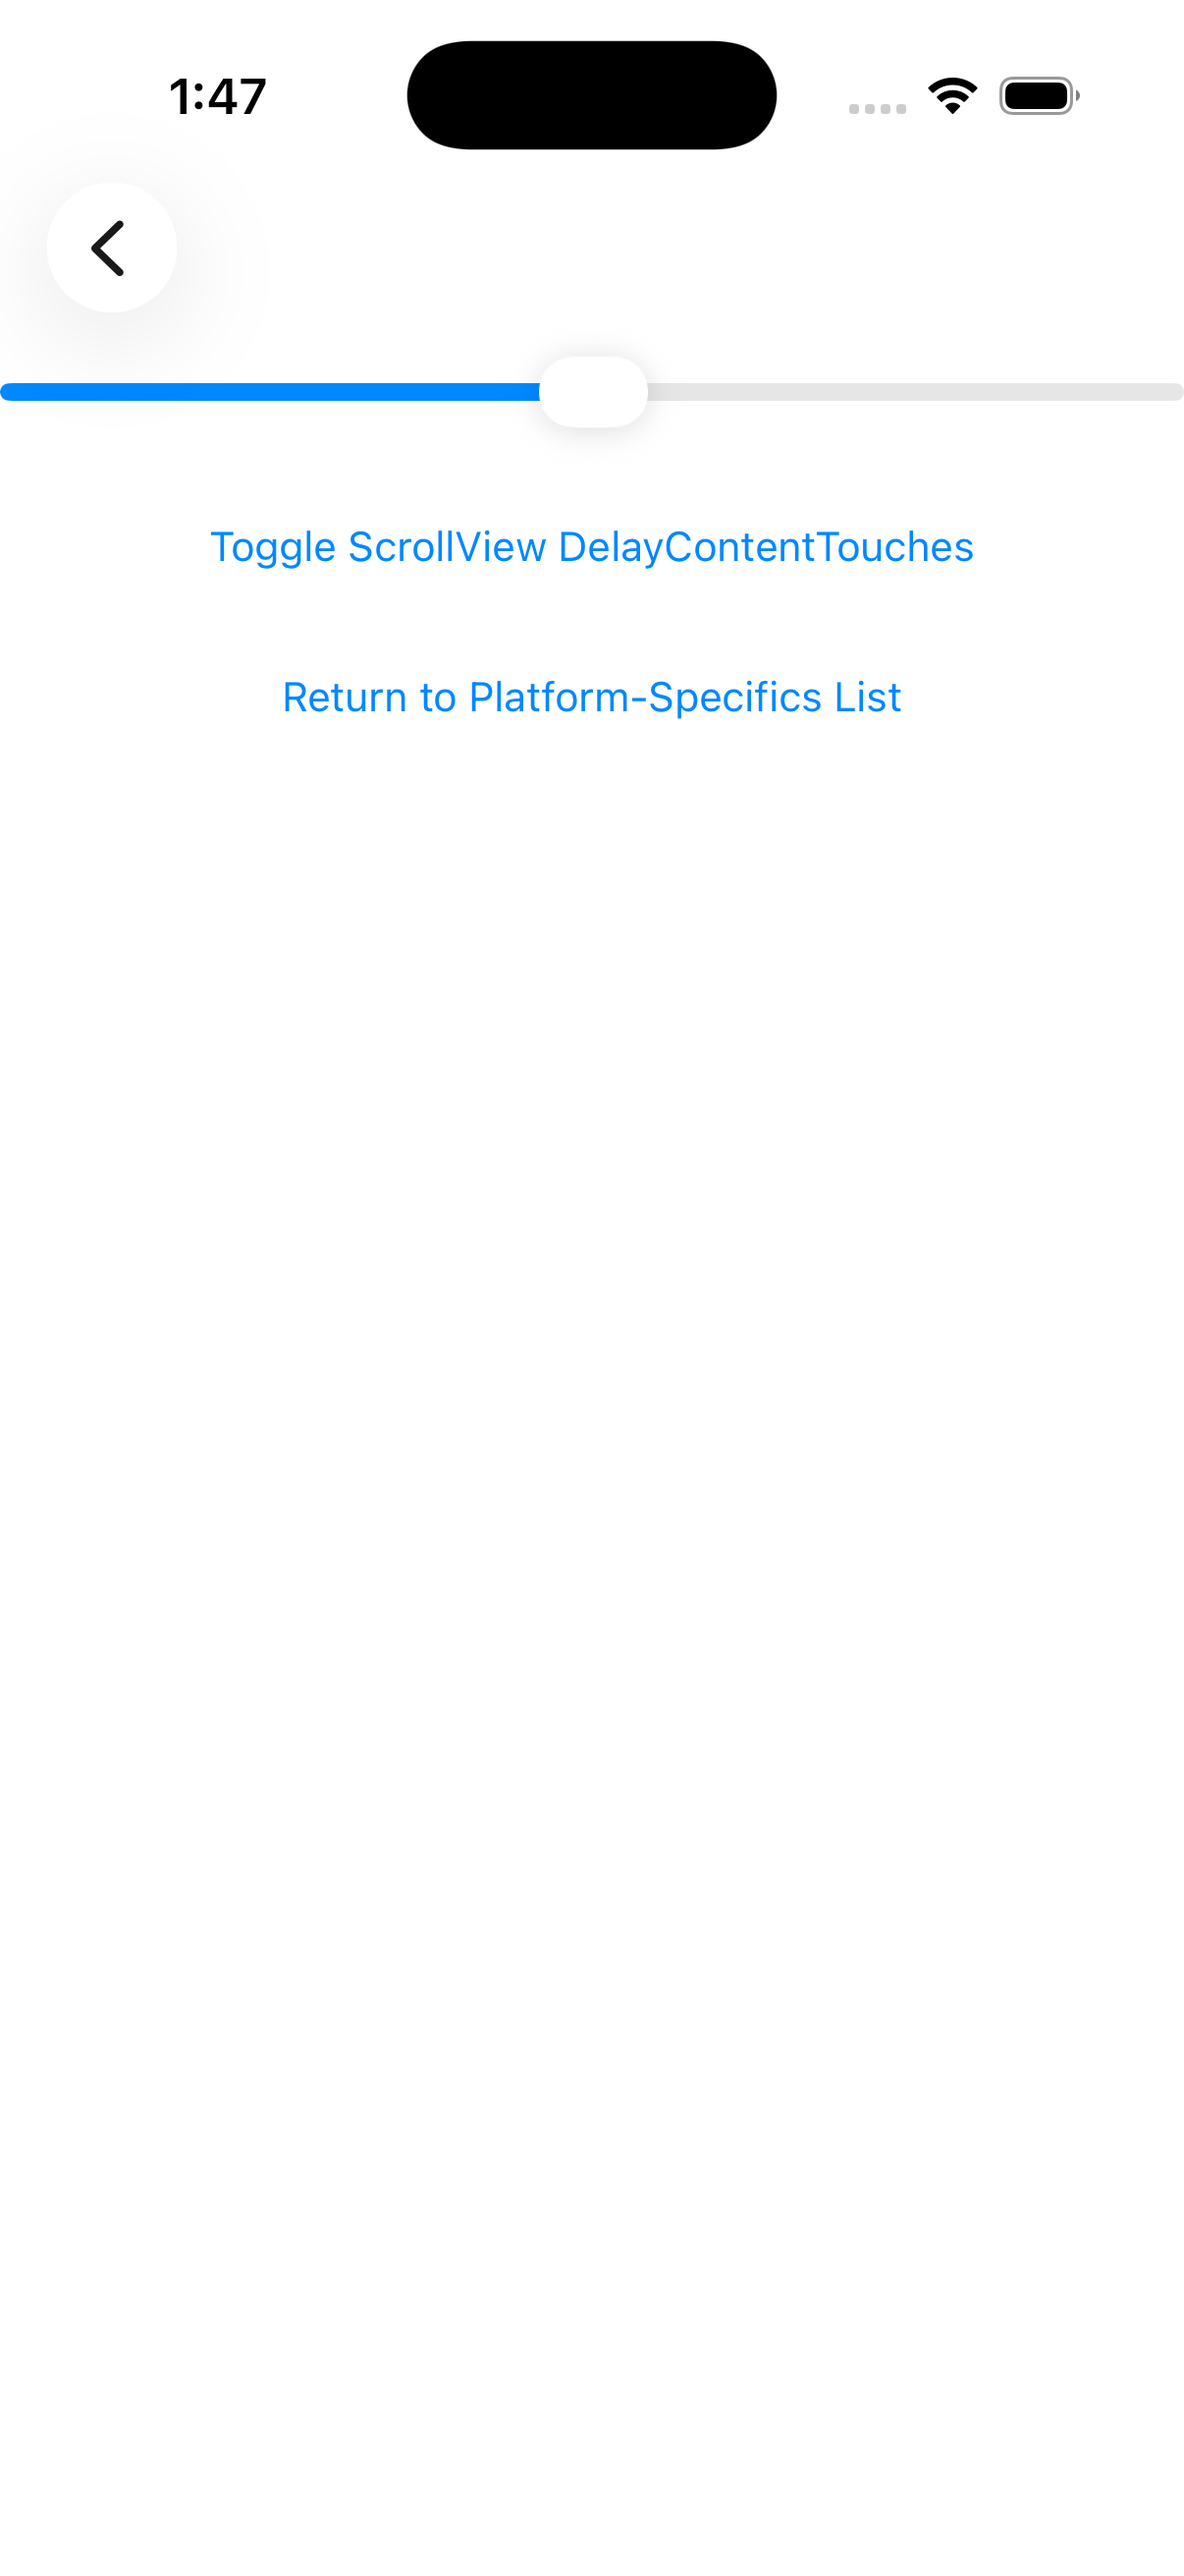
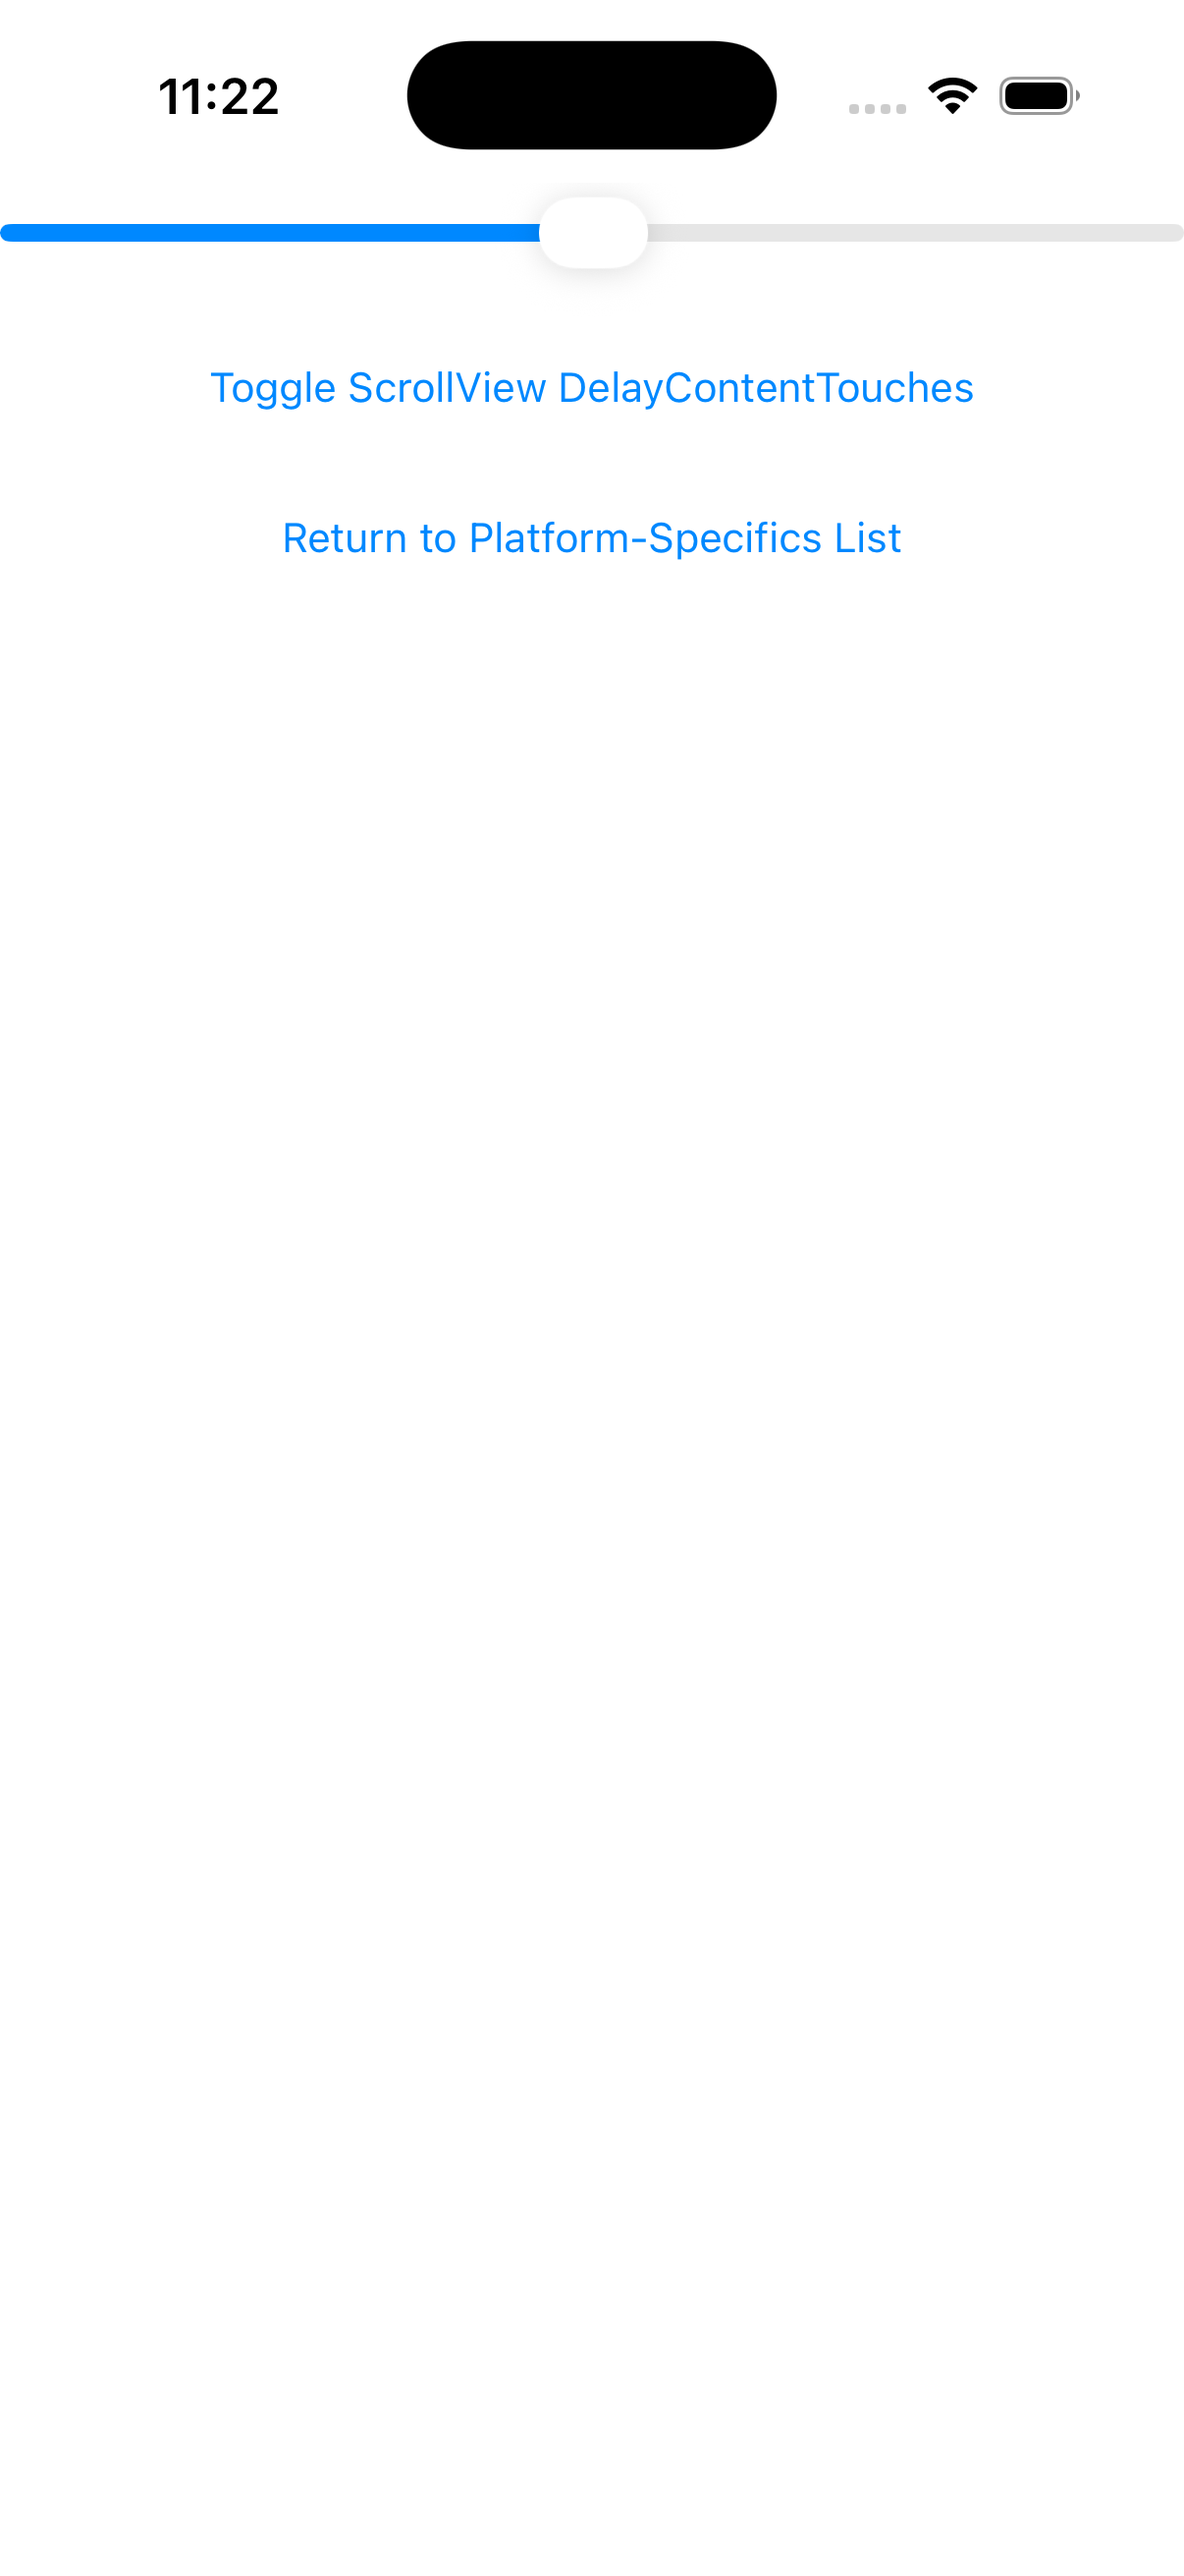
feat(WS-E): clean iOS capture pipeline; green ios_scroll_view (158)
New port/cpp/tools/parity/capture_ios_clean.py solves two iOS-capture blockers:
- SpringBoard 'back to <app>' overlay artifact (iter35's ios_scroll_view chevron):
  it only appears on the FIRST launch after an app-switch, so warm-up the bundle
  once then same-app-relaunch each page -> clean shots (no idb/XCUITest tap needed).
- macOS TCC: simctl can't write into ~/Documents, so screenshot to /tmp then copy
  with Python file I/O.

Recaptured ios_scroll_view cpp + a fresh MauiReference iOS baseline (-> ruling-6
maui-reference/captures/ios/) cleanly: pixel-perfect 0.07%/0.08% (SSIM 0.998). The
chevron was purely a capture artifact (iter35 lldb proved the app renders none).
iOS 157->158 green; board now resolves the fresh iOS baseline via dual-root.

diff --git a/port/cpp/tools/parity/capture_ios_clean.py b/port/cpp/tools/parity/capture_ios_clean.py
@@ -1,0 +1,109 @@
+#!/usr/bin/env python3
+"""WS-E clean iOS capture — dodges the SpringBoard "back to <app>" overlay artifact.
+
+The overlay (a "◀ <previous-app>" affordance in a SEPARATE window) leaks into
+`simctl io screenshot` ONLY on the first launch after switching FROM a different app.
+A same-app relaunch (--terminate-running-process on an already-foreground bundle) does
+NOT re-trigger it. So the flow is: launch the target bundle ONCE to make it foreground
+(warm-up, discarded), then for each (key, theme) relaunch the SAME bundle + settle +
+screenshot. No idb / XCUITest tap needed (SIGSTOP/SIGCONT was flaky — see iter35).
+
+Apps (bundle + env contract):
+  maui -> dev.mauicpp.mauireference   MAUI_COMPARE_PAGE / MAUI_THEME(Light|Dark)  -> port/maui-reference/captures/ios/<key>_<theme>.png
+  cpp  -> dev.maui-cpp.ios-gallery     MAUI_SAMPLE_PAGE  / MAUI_APPEARANCE(light|dark) -> docs/comparison/captures/ios/cpp/<key>_<theme>.png
+  xaml -> dev.maui-cpp.ios-gallery-xaml MAUI_SAMPLE_PAGE / MAUI_APPEARANCE -> docs/comparison/captures/ios/xaml/<key>_<theme>.png
+
+Does NOT build or install — `ninja` the gallery / `dotnet build` MauiReference and
+`simctl install` first. Usage:
+  python3 capture_ios_clean.py --app cpp --themes light,dark --only switch,ios_scroll_view
+  python3 capture_ios_clean.py --app maui --themes light,dark            # all shared pages
+"""
+import argparse
+import os
+import shutil
+import subprocess
+import sys
+import tempfile
+import time
+
+UDID = os.environ.get("MAUI_SIM_UDID", "C4926671-2FA7-428E-B4A4-480692EE742B")
+HERE = os.path.dirname(os.path.abspath(__file__))
+CPP = os.path.abspath(os.path.join(HERE, "..", ".."))          # port/cpp
+PORT = os.path.abspath(os.path.join(CPP, ".."))                 # port
+PAGES = os.path.join(PORT, "maui-reference", "pages")
+REF_CAP = os.path.join(PORT, "maui-reference", "captures", "ios")
+COMP_CAP = os.path.join(CPP, "docs", "comparison", "captures", "ios")
+
+APPS = {
+    "maui": {"bundle": "dev.mauicpp.mauireference", "page": "MAUI_COMPARE_PAGE",
+             "theme": "MAUI_THEME", "theme_val": lambda t: "Dark" if t == "dark" else "Light",
+             "out": lambda k, t: os.path.join(REF_CAP, f"{k}_{t}.png")},
+    "cpp": {"bundle": "dev.maui-cpp.ios-gallery", "page": "MAUI_SAMPLE_PAGE",
+            "theme": "MAUI_APPEARANCE", "theme_val": lambda t: t,
+            "out": lambda k, t: os.path.join(COMP_CAP, "cpp", f"{k}_{t}.png")},
+    "xaml": {"bundle": "dev.maui-cpp.ios-gallery-xaml", "page": "MAUI_SAMPLE_PAGE",
+             "theme": "MAUI_APPEARANCE", "theme_val": lambda t: t,
+             "out": lambda k, t: os.path.join(COMP_CAP, "xaml", f"{k}_{t}.png")},
+}
+
+
+def all_keys():
+    # the board pages = shared XAML minus the deliberately-broken gap_*.xaml corpus.
+    return sorted(f[:-5] for f in os.listdir(PAGES)
+                  if f.endswith(".xaml") and not f.startswith("gap_"))
+
+
+def launch(spec, key, theme):
+    env = dict(os.environ)
+    env[f"SIMCTL_CHILD_{spec['page']}"] = key
+    env[f"SIMCTL_CHILD_{spec['theme']}"] = spec["theme_val"](theme)
+    subprocess.run(["xcrun", "simctl", "launch", "--terminate-running-process", UDID, spec["bundle"]],
+                   env=env, stdout=subprocess.DEVNULL, stderr=subprocess.DEVNULL, check=True)
+
+
+def main():
+    ap = argparse.ArgumentParser()
+    ap.add_argument("--app", required=True, choices=list(APPS))
+    ap.add_argument("--themes", default="light,dark")
+    ap.add_argument("--only", default="")
+    ap.add_argument("--settle", type=float, default=4.0)
+    args = ap.parse_args()
+
+    spec = APPS[args.app]
+    themes = [t.strip() for t in args.themes.split(",") if t.strip()]
+    keys = [k.strip() for k in args.only.split(",") if k.strip()] or all_keys()
+
+    # Warm-up: bring the bundle to foreground ONCE so subsequent same-app relaunches
+    # don't trigger the SpringBoard back-to-app overlay. Discard this frame.
+    launch(spec, keys[0], themes[0])
+    time.sleep(args.settle + 2.0)
+
+    n = 0
+    for key in keys:
+        for theme in themes:
+            out = spec["out"](key, theme)
+            os.makedirs(os.path.dirname(out), exist_ok=True)
+            launch(spec, key, theme)
+            time.sleep(args.settle)
+            # simctl (a subprocess) can't write into ~/Documents (macOS TCC), so screenshot to a
+            # /tmp staging path, then copy into the repo with Python file I/O (which is permitted).
+            # Retry: screenshot can transiently fail if it fires mid display-transition.
+            stage = os.path.join(tempfile.gettempdir(), f"wse_{args.app}_{key}_{theme}.png")
+            for attempt in range(4):
+                r = subprocess.run(["xcrun", "simctl", "io", UDID, "screenshot", "--type=png", stage],
+                                   stdout=subprocess.DEVNULL, stderr=subprocess.DEVNULL)
+                if r.returncode == 0 and os.path.exists(stage):
+                    break
+                time.sleep(1.0)
+            else:
+                print(f"  WARN: screenshot failed after retries: {key} {theme}")
+                continue
+            shutil.copyfile(stage, out)
+            os.remove(stage)
+            n += 1
+            print(f"[{n}] {args.app} {theme} {key} -> {os.path.relpath(out, PORT)}")
+    print(f"CLEAN_CAPTURE_DONE ({n} shots)")
+
+
+if __name__ == "__main__":
+    sys.exit(main())

diff --git a/port/cpp/docs/comparison/README.md b/port/cpp/docs/comparison/README.md
@@ -11,8 +11,8 @@ Real .NET MAUI (native-default) vs the C++ port vs the compile-time-XAML gallery
 
 | Classification | Sonnet 5 | Gemini |
 | --- | --- | --- |
-| 🟢 Match | 157 | 0 |
-| 🟡 Minor | 14 | 0 |
+| 🟢 Match | 158 | 0 |
+| 🟡 Minor | 13 | 0 |
 | 🔴 Major | 0 | 0 |
 | ⬛ Blank | 1 | 0 |
 | ⏳ Unreviewed | 23 | 195 |
@@ -2105,16 +2105,16 @@ _Not yet reviewed._
 
 _Not yet computed — no automated pixel-diff score is recorded for this page yet._
 
-### 113. Ios Scroll View — 🟡/⏳
+### 113. Ios Scroll View — 🟢/⏳
 <sub>ios_scroll_view</sub>
 
-<table><tr><th></th><th>MAUI</th><th>C++</th><th>C++ &amp; XAML</th></tr><tr><th>Light</th><td><img width="300px" src="captures/ios/maui/ios_scroll_view_light.png" /></td><td><img width="300px" src="captures/ios/cpp/ios_scroll_view_light.png" /></td><td><img width="300px" src="captures/ios/xaml/ios_scroll_view_light.png" /></td></tr><tr><th>Dark</th><td><img width="300px" src="captures/ios/maui/ios_scroll_view_dark.png" /></td><td><img width="300px" src="captures/ios/cpp/ios_scroll_view_dark.png" /></td><td><img width="300px" src="captures/ios/xaml/ios_scroll_view_dark.png" /></td></tr></table>
+<table><tr><th></th><th>MAUI</th><th>C++</th><th>C++ &amp; XAML</th></tr><tr><th>Light</th><td><img width="300px" src="../../../maui-reference/captures/ios/ios_scroll_view_light.png" /></td><td><img width="300px" src="captures/ios/cpp/ios_scroll_view_light.png" /></td><td><img width="300px" src="captures/ios/xaml/ios_scroll_view_light.png" /></td></tr><tr><th>Dark</th><td><img width="300px" src="../../../maui-reference/captures/ios/ios_scroll_view_dark.png" /></td><td><img width="300px" src="captures/ios/cpp/ios_scroll_view_dark.png" /></td><td><img width="300px" src="captures/ios/xaml/ios_scroll_view_dark.png" /></td></tr></table>
 
 ports iOSScrollViewPage.xaml (+ iOSScrollViewPage.xaml.cs)
 
-#### 🟡 Sonnet 5 Review
+#### 🟢 Sonnet 5 Review
 
-Cpp renders an extra circular back-navigation chevron button near the top-left in both themes that MAUI does not show; otherwise slider and links match.
+Pixel-perfect match in both themes (cpp-vs-MAUI 0.07%/0.08%, SSIM 0.998). The earlier 'extra back chevron' was a CAPTURE ARTIFACT (a SpringBoard back-to-previous-app overlay that leaked into the cpp screenshot when capture switched apps), NOT a port bug — iter35's lldb view hierarchy already proved the app renders no chevron. Recaptured cleanly via the WS-E flow (warm-up launch + same-app relaunch + settle) against a fresh MauiReference iOS baseline: slider, 'Toggle ScrollView DelayContentTouches', and 'Return to Platform-Specifics List' all align exactly.
 
 #### ⏳ Gemini Review
 
